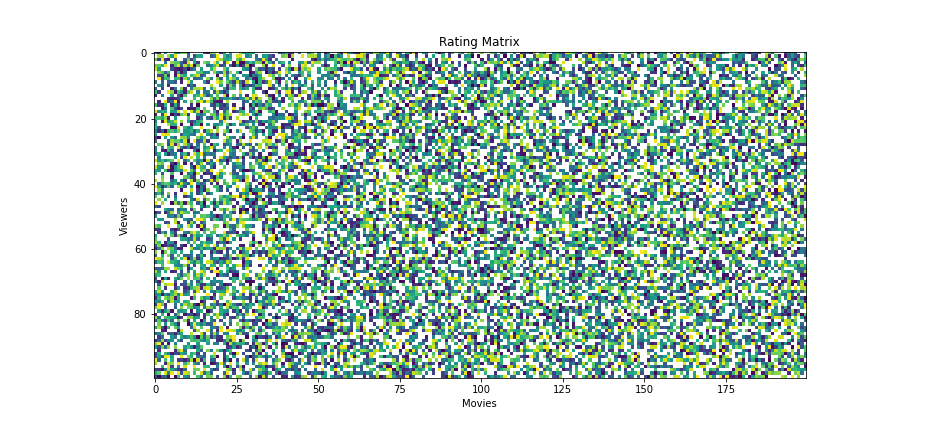
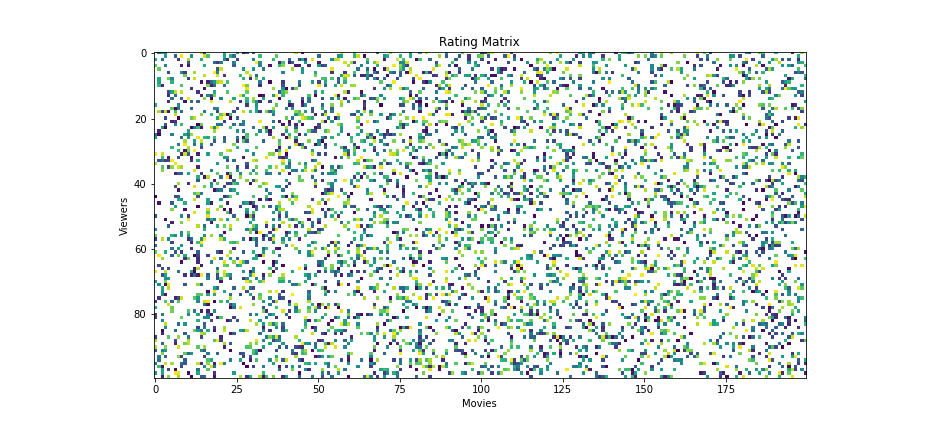
adding seed

diff --git a/moving_rating_model.py b/moving_rating_model.py
@@ -6,12 +6,16 @@ import matplotlib.pyplot as plt
 import pandas as pd
 import numpy as np
 import networkx as nx
+import random
+
+#setting seed
+random.seed(1985)
 
 #Run the model for a certain number of steps
 N = 100
 M = 200
 test_model = RatingModel(N, M)
-for i in range(int(M/1.5)):
+for i in range(int(M/4)):
     test_model.step()
 
 #cast as DataFrame for visualizations
